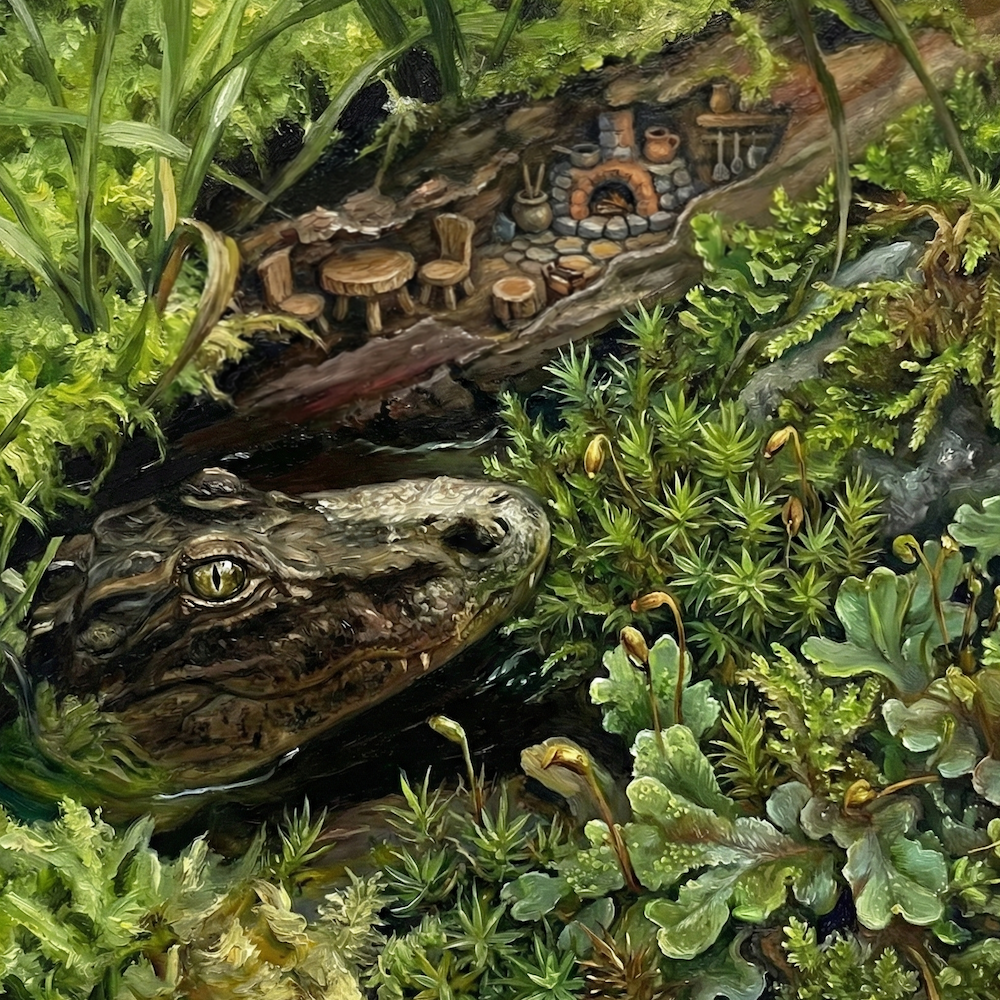
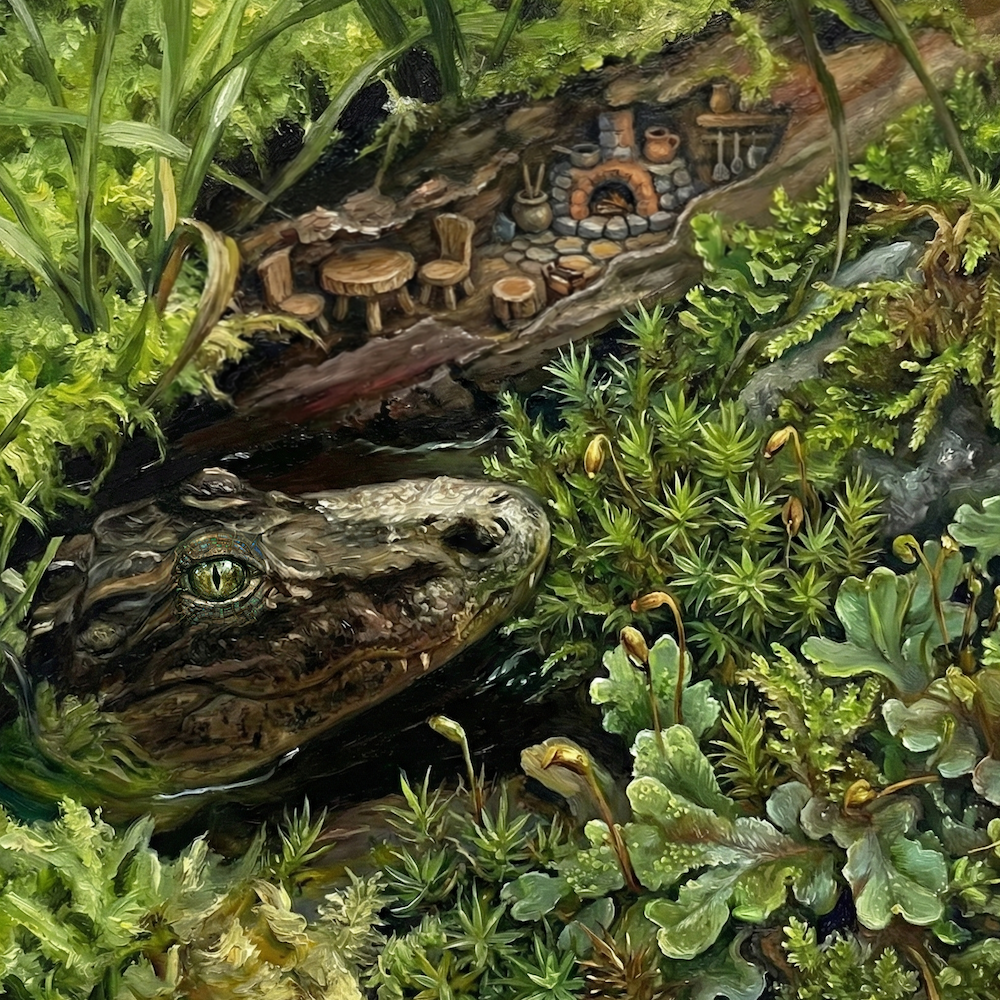
6

Changed region(s): [[0.155, 0.527, 0.279, 0.651]]

diff --git a/scenes.js b/scenes.js
@@ -190,13 +190,19 @@ window.gameData = {
     },
     'croco': {
         type: 'cinematic',
-        hotspots: []
+        hotspots: [
+           { top: '53.8%', left: '17.5%', width: '8.2%', height: '8.2%', target: 'future' }
+        ]
     },
     'fishtank': {
         type: 'cinematic',
         hotspots: []
     },
     'pandas': {
+        type: 'cinematic',
+        hotspots: []
+    },
+    'future': {
         type: 'cinematic',
         hotspots: []
     },
